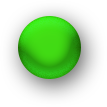
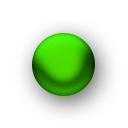
moving ball

Changed region(s): [[0.1121, 0.1121, 0.8411, 0.757]]

diff --git a/math.js b/math.js
@@ -1,61 +1,70 @@
 const math = (function () {
   'use strict';
 
-  // function line(x1, y1, x2, y2) {
-  //   const yDif = y1 - y2;
+  function getNextCoord(x1, y1, x2, y2, dist) {
+    var angle = Math.atan2(y2 - y1, x2 - x1);
 
-  //   if (!yDif) { throw new Error('Horizontal line'); }
+    return {
+      x: x1 + Math.cos(angle) * dist,
+      y: y1 + Math.sin(angle) * dist
+    };
+  }
 
-  //   const a = (x1 - x2) / yDif;
-  //   const b = y1 - a * x1;
+  function line(x1, y1, x2, y2) {
+    const yDif = y1 - y2;
 
-  //   return {a, b};
-  // }
+    if (!yDif) { throw new Error('Horizontal line'); }
 
-  // function getLineX(a, b, y) {
-  //   return (y - b) / a;
-  // }
+    const a = (x1 - x2) / yDif;
+    const b = y1 - a * x1;
 
-  // function getLineY(a, b, x) {
-  //   return a * x + b;
-  // }
+    return {a, b};
+  }
 
-  // function getCircleIntersection() {
-  //   // if line is horizontal check where x is on the circle
-  //   // if line is vertical check where y is on the circle
-  //   // otherwise see where the line intersects the circle
+  function getLineX(a, b, y) {
+    return (y - b) / a;
+  }
 
-  //   // y = ax + b
-  //   // (cx - x)^2 + (cy - y)^2 = r^2
-  //   // cx^2 + x^2 - 2xcx + cy^2 + (ax + b)^2 - 2cy(ax + b) = r^2
-  //   // cx^2 + x^2 - 2xcx + cy^2 + ax^2 + b^2 + 2axb - 2axcy - 2cyb = r^2
-  //   // x^2 - 2xcx + ax^2 + 2axb - 2axcy = r^2 - cx^2 - cy^2 - b^2 + 2cyb
-  //   // (a + 1)x^2 + x(2ab - 2cx - 2acy) = r^2 - cx^2 - cy^2 - b^2 + 2cyb
+  function getLineY(a, b, x) {
+    return a * x + b;
+  }
 
-  //   // z1x^2 + z2x + z3 = 0
-  //   // d = z2^2 - 4z1z3
-  //   // x1 = (-z2 + sqrt(d)) / 2z1
-  //   // x2 = (-z2 - sqrt(d)) / 2z1
-  // }
+  function getCircleIntersection() {
+    // if line is horizontal check where x is on the circle
+    // if line is vertical check where y is on the circle
+    // otherwise see where the line intersects the circle
 
-  // function eq2(a, b, c) {
-  //   const twoA = 2 * a;
-  //   const delta = b * b - 4 * a * c;
-  //   const hasOneSolution = delta === 0;
-  //   const sqrtDelta = Math.sqrt(delta);
-  //   let x1, x2;
+    // y = ax + b
+    // (cx - x)^2 + (cy - y)^2 = r^2
+    // cx^2 + x^2 - 2xcx + cy^2 + (ax + b)^2 - 2cy(ax + b) = r^2
+    // cx^2 + x^2 - 2xcx + cy^2 + ax^2 + b^2 + 2axb - 2axcy - 2cyb = r^2
+    // x^2 - 2xcx + ax^2 + 2axb - 2axcy = r^2 - cx^2 - cy^2 - b^2 + 2cyb
+    // (a + 1)x^2 + x(2ab - 2cx - 2acy) = r^2 - cx^2 - cy^2 - b^2 + 2cyb
 
-  //   if (delta < 0) { throw new Error('No solution'); }
+    // z1x^2 + z2x + z3 = 0
+    // d = z2^2 - 4z1z3
+    // x1 = (-z2 + sqrt(d)) / 2z1
+    // x2 = (-z2 - sqrt(d)) / 2z1
+  }
 
-  //   x1 = (-b + sqrtDelta) / twoA;
-  //   x2 = hasOneSolution
-  //     ? x1
-  //     : (-b - sqrtDelta) / twoA;
+  function eq2(a, b, c) {
+    const twoA = 2 * a;
+    const delta = b * b - 4 * a * c;
+    const hasOneSolution = delta === 0;
+    const sqrtDelta = Math.sqrt(delta);
+    let x1, x2;
 
-  //   return {x1, x2, hasOneSolution};
-  // }
+    if (delta < 0) { throw new Error('No solution'); }
+
+    x1 = (-b + sqrtDelta) / twoA;
+    x2 = hasOneSolution
+      ? x1
+      : (-b - sqrtDelta) / twoA;
+
+    return {x1, x2, hasOneSolution};
+  }
 
   return {
-
+    getNextCoord
   };
 })();

diff --git a/canvas.js b/canvas.js
@@ -6,11 +6,13 @@ const canvas = (function () {
   var images = new Map();
   var canvasMidX;
   var canvasMidY;
-  var ballSizeDrawingRatio = 0.3;
 
   function init() {
-    createCanvas({width: 500, height: 300});
-    return loadImages();
+    return loadImages()
+      .then(function () {
+        var bigCircle = images.get('Level1CircleBig');
+        createCanvas({width: bigCircle.width, height: bigCircle.height});
+      });
   }
 
   function loadImages() {
@@ -57,8 +59,10 @@ const canvas = (function () {
 
   function drawGreenBall(x, y) {
     var img = images.get('BallGreen');
+    var ballSizeDrawingRatio = constants.ballSizeDrawingRatio;
+
     ctx.save();
-    ctx.translate(x + 5 * ballSizeDrawingRatio, y + 13 * ballSizeDrawingRatio);
+    ctx.translate(x, y);
     ctx.drawImage(img, -img.width / 2 * ballSizeDrawingRatio, -
       img.height / 2 * ballSizeDrawingRatio,
       img.width * ballSizeDrawingRatio,

diff --git a/objects.js b/objects.js
@@ -3,6 +3,8 @@ const objects = (function () {
 
   var objects;
   var fullCircleRotation = 360;
+  var ballSpeed = constants.ballSpeed;
+
   var currentCircle = {
     rotation: 0,
     act() {},
@@ -16,7 +18,13 @@ const objects = (function () {
   var currentBall = {
     x: 0,
     y: 0,
-    act() {},
+    destX: getRandomCoord(),
+    destY: getRandomCoord(),
+    act() {
+      var nextCoord = math.getNextCoord(this.x, this.y, this.destX, this.destY, ballSpeed);
+      this.x = nextCoord.x;
+      this.y = nextCoord.y;
+    },
     draw() {
       canvas.drawGreenBall(this.x, this.y);
     }
@@ -40,6 +48,13 @@ const objects = (function () {
 
   function setCircleRotation(rotationDelta) {
     currentCircle.setRotation(rotationDelta);
+  }
+
+  function getRandomCoord() {
+    var x = Math.random() * 1000;
+    return x < 500
+      ? x - 500
+      : x + 500;
   }
 
   return {

diff --git a/index.html b/index.html
@@ -7,6 +7,7 @@
   <div class="pause-message">
     <div>PAUSED. Right click to unpause.</div>
   </div>
+  <script src="constants.js"></script>
   <script src="math.js"></script>
   <script src="view.js"></script>
   <script src="canvas.js"></script>

diff --git a/constants.js b/constants.js
@@ -1,0 +1,8 @@
+const constants = (function () {
+  'use strict';
+
+  return {
+    ballSizeDrawingRatio: 0.4,
+    ballSpeed: 1
+  };
+})();
